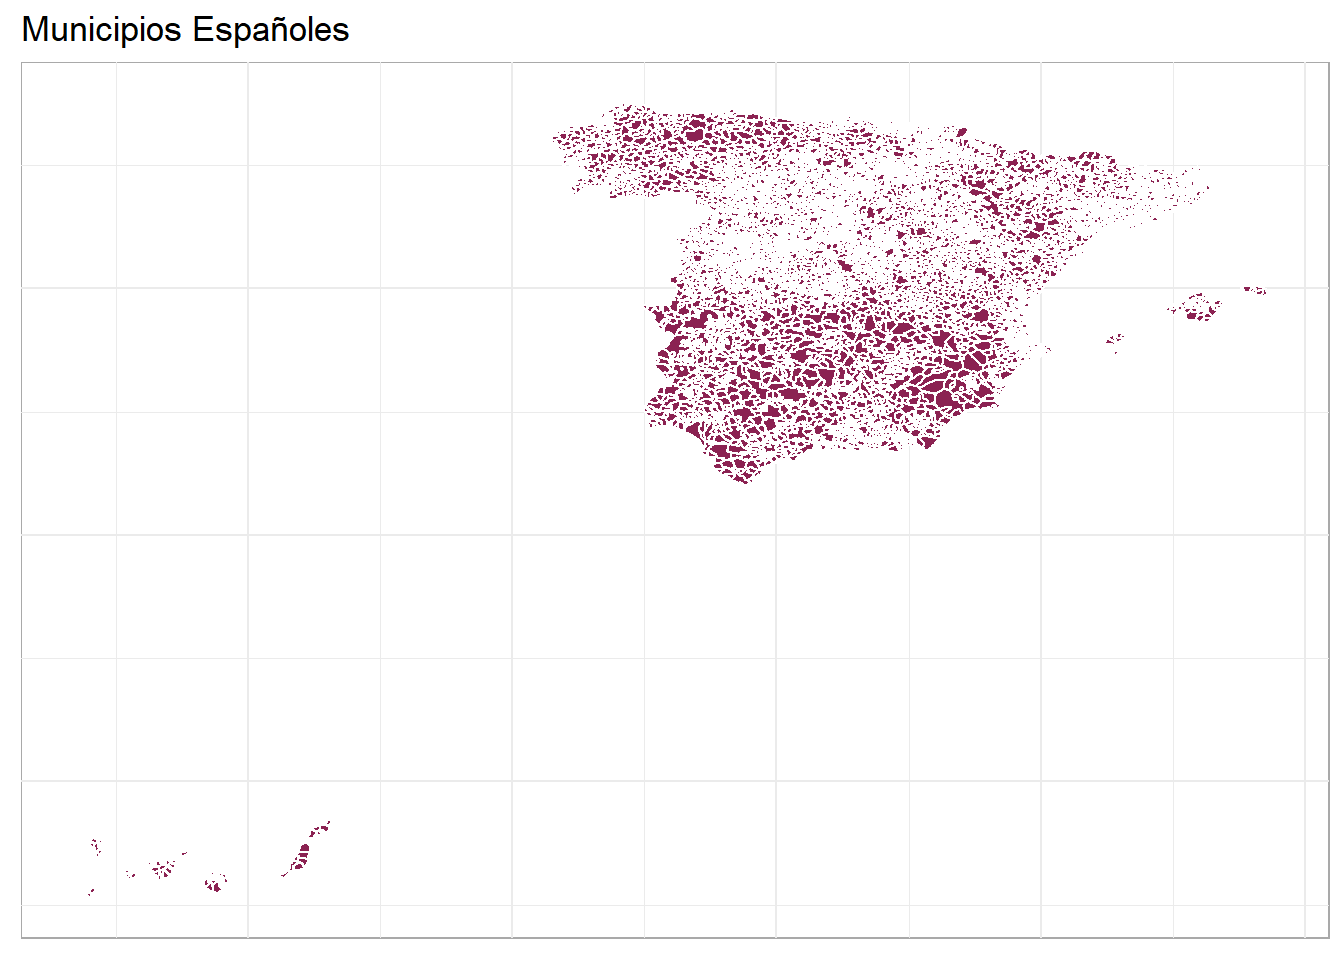
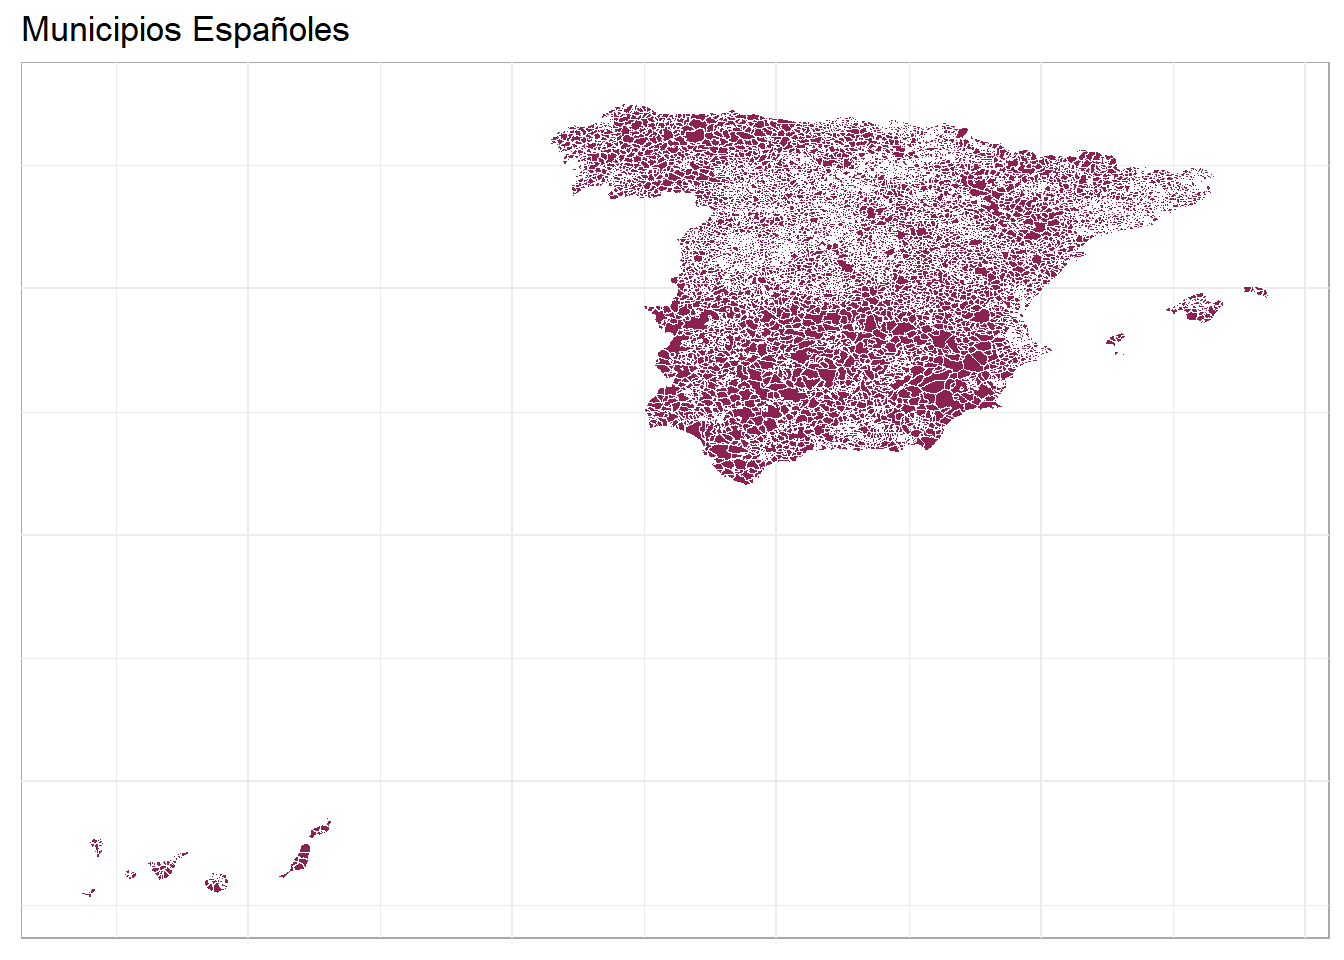
octavo post

Changed region(s): [[0.4062, 0.125, 0.9062, 0.5], [0.875, 0.3125, 0.9062, 0.3438]]

diff --git a/content/mapas_spain.html b/content/mapas_spain.html
@@ -332,7 +332,8 @@ data_municipios_mapa %&gt;%
   ggplot() +
   geom_polygon(aes( x= long, y = lat, group = group),
                fill = &quot;violetred4&quot;,
-               color = &quot;white&quot;) +
+               color = &quot;white&quot;,
+               size = 0.1) +
   theme_minimal() +
   theme(
     axis.line = element_blank(),

diff --git a/public/mapas_spain/index.html b/public/mapas_spain/index.html
@@ -416,7 +416,8 @@ data_municipios_mapa %&gt;%
   ggplot() +
   geom_polygon(aes( x= long, y = lat, group = group),
                fill = &quot;violetred4&quot;,
-               color = &quot;white&quot;) +
+               color = &quot;white&quot;,
+               size = 0.1) +
   theme_minimal() +
   theme(
     axis.line = element_blank(),
